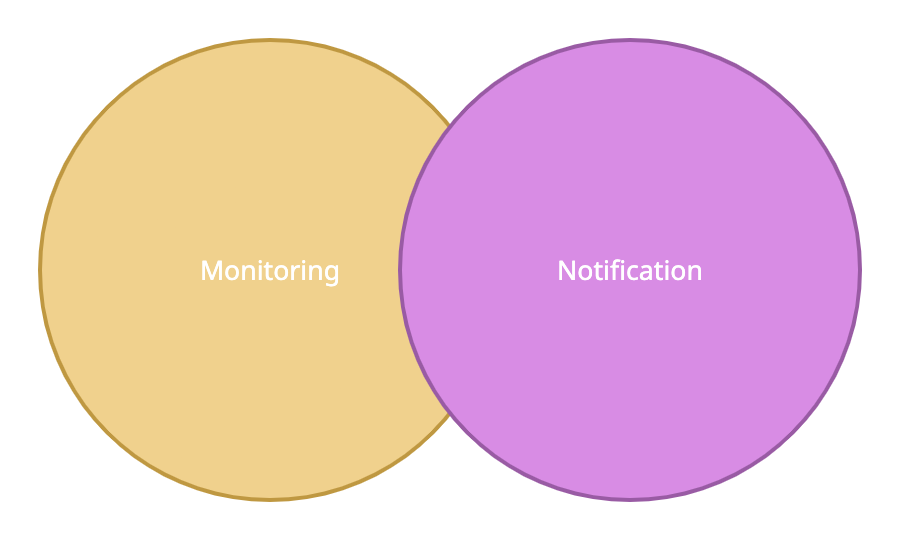
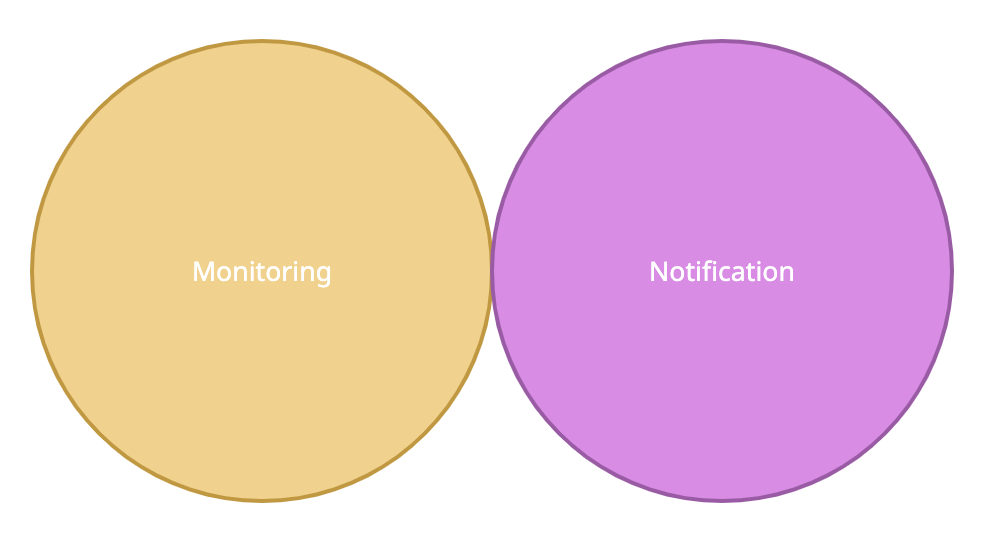
rework tooling

Changed region(s): [[0.0311, 0.0599, 0.9956, 0.9588], [0.6222, 0.4794, 0.8089, 0.5393], [0.1867, 0.4794, 0.3733, 0.5393]]

diff --git a/presentation.md b/presentation.md
@@ -14,11 +14,7 @@ Bad alerting adds friction to operating production software
 </h2>
 
 <h2 class="fragment fade-up">
-Common dysfunctions
-</h2>
-
-<h2 class="fragment fade-up">
-Improve the experience!
+We can do better!
 </h2>
 
 ???
@@ -145,9 +141,9 @@ Improve the experience!
 
 ---
 
-<!-- .slide: data-background-image="images/interruptions.png" data-background-size="100% auto" -->
-
 ## Constant Interruptions
+
+![interruptions](images/interruptions.png)
 
 ???
 
@@ -501,8 +497,6 @@ EOT
 
 ???
 
-- I've said in point 2 that technology alone is not the solution
-- Time to contradict myself!
 - Good tooling has a clear place in alerting: Make your life easier
 
 ---
@@ -516,49 +510,6 @@ EOT
 ---
 
 ![intersection](images/intersection.png)
-
-???
-
-- Two features that I want to mention
-
----
-
-## Auto closing
-
-???
-
-- if the alert gets opened and closed, it should be reflected in the tool and not add to the noise
-
----
-
-## Auto grouping
-
-???
-
-- If the same alert or similar group of alerts get triggered, that should be clearly grouped and not treated as individual alerts
-
----
-
-## Conditional routing
-### Based on time
-### Priority
-
-???
-
-- Routing based on conditions
--- some alerts can wait until the next day
--- some alerts require immediate action. Others can be logged as tickets
-
----
-
-## Do you take it for granted?
-### I've learned not to 😩
-
-???
-
-- Counter example: A German client used an internal tool for incident management. It came straight out of the 90s
-- It had none of these features
-- I wish I had a screenshot of the tool because you would understand instantly what I mean
 
 ---
 
@@ -576,6 +527,44 @@ EOT
 
 - Bottom line, use good tools. They're worth it
 - I mention DD and PD here because I'm familiar with them. There are many alternatives
+
+---
+
+## Do you take good 🛠 for granted?
+### I've learned not to 😩
+
+???
+
+- Counter example: A German client used an internal tool for incident management. It came straight out of the 90s
+- It had none of these features
+- I wish I had a screenshot of the tool because you would understand instantly what I mean
+
+---
+
+## Project at a German client 
+### Ticketing system without features such as
+
+---
+
+## Auto closing
+
+<h2 class="fragment fade-up">
+  Auto grouping
+</h3>
+
+<h2 class="fragment fade-up">
+  Conditional routing
+</h3>
+
+<span class="fragment fade-up">
+🤦
+</span>
+
+???
+
+- if the alert gets opened and closed, it should be reflected in the tool and not add to the noise
+- If the same alert or similar group of alerts get triggered, that should be clearly grouped and not treated as individual alerts
+- Routing based on conditions
 
 ---
 
@@ -622,8 +611,7 @@ EOT
 
 ---
 
-## Tie thresholds to business metrics
-### (SLOs)
+## Split alerts in smaller ones
 
 TODO: better pic?
 ![split-alerts](images/split-alerts.png)
